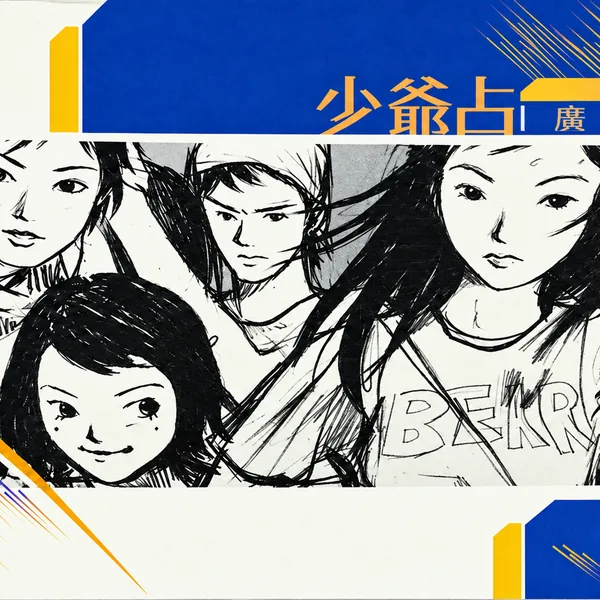
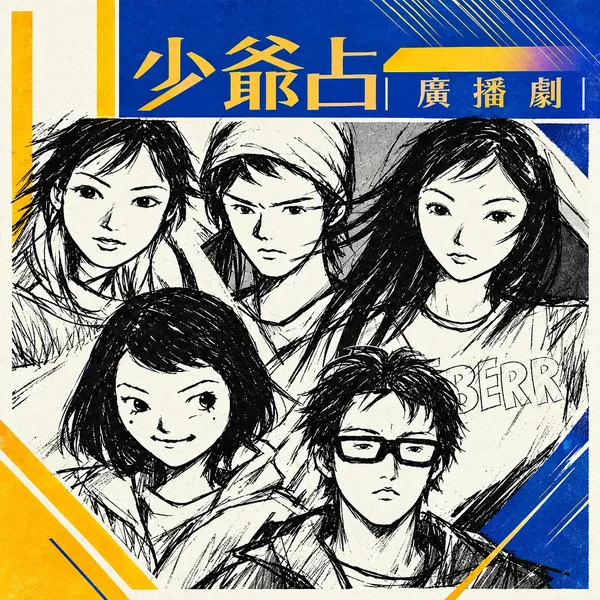
feat(drama): use the supplied CD covers for 少爺占系列 and 黃金少年 series discs
- jim/disc.webp: the user's square CD cover, resized to 600x600
- golden gets its own series disc.webp from the CD cover instead of
  borrowing season-1-disc.webp; the four season discs stay as they are
- golden.test.ts now expects no season disc to be the series disc

Claude-Session: https://claude.ai/code/session_01NegVT1E6bKciWZ9NNvzRcz

diff --git a/src/dramas/golden.test.ts b/src/dramas/golden.test.ts
@@ -48,11 +48,11 @@ describe('黃金少年', () => {
     });
 
     describe('per-season disc art', () => {
-        it('gives every season its own disc, with Season 1 as the drama disc', () => {
+        it('gives every season its own disc, none of them the series disc', () => {
             const discs = SEASONS.map((n) => inSeason(n)[0]).map((e) => e && dramaArtFor(e));
             expect(discs.every(Boolean)).toBe(true);
             expect(new Set(discs).size).toBe(SEASONS.length);
-            expect(discs[0]).toBe(findDrama('golden')?.theme.art);
+            expect(discs).not.toContain(findDrama('golden')?.theme.art);
         });
 
         it('themes a playing episode with the drama colours and the season disc', () => {

diff --git a/README.md b/README.md
@@ -14,7 +14,7 @@
   闊 ≥ 1024px 字同掣 × 1.3、iPad 打橫 × 1.5（`--ui-scale`）。Preview：`design/previews/landscape-preview.html`
 - 廣播劇（`src/dramas/<id>/drama.json`，見下面「資料檔」）：主頁廣播劇 tab 一行一套劇；全部用淺色主題（頁頂狀態列墊深色帶，iOS 白字睇得清），碟面用劇集圖
     - 芝See菇Bi Family（短篇劇集）：唱片下面「現正播放：短篇 · 第 N 集」（暫停講「已暫停」、揀短篇載入咗未開始講「下一集」，清單行同樣講「已暫停 / 未開始」）+ 短篇 chips 左右掃，揀短篇換集數清單（冇播放時順便載入嗰個短篇嘅續聽集，唔自動播，碟面同時間跟住轉；播緊就淨係換清單）（有集名大字顯示集名，冇就顯示「第 N 集」）；入頁續播上次聽緊嗰集（聽完就下一集）；一集播完自動接下一集（播完一個短篇接下一個短篇，最後一集播完就停）；「☰ 全集」釘住 chips 最左，打開全集一覽表（分組：播放中 → 新上架 → 未聽完 → 已聽完；圓環 = 聽完幾多集；右邊掣續聽 / 播未收聽 / ↺ 重聽），短篇 chips 同一次序；集數清單聽完嘅排最底；新短篇（catalog `addedAt`）上架 14 日內有「新」；主頁劇集格：未聽過 / 播緊時只有短篇數（右下），聽過未播緊就喺圖底出「繼續收聽」（短篇數移去右上），有未聽過嘅新短篇左上角出「新」
-    - 黃金少年（短篇劇集，`arcUnit: "season"`）：4 季 126 集，主頁角落「全 4 季」，碟面跟播緊（或者暫停時揀咗）嗰季（每季一張 `season-N-disc.webp`）
+    - 黃金少年（短篇劇集，`arcUnit: "season"`）：4 季 126 集，主頁角落「全 4 季」，碟面跟播緊（或者暫停時揀咗）嗰季（每季一張 `season-N-disc.webp`），未揀季時用系列碟面 `disc.webp`
     - 森美小儀系列（短篇劇集）：7 個短篇 109 集（來不及聽你說愛我 10、公子森林 40、十九樓半的夏天 10、森之愛情I - 森之聖誕 10、森之愛情II - 電燈膽 9、森之聖誕2010 15（每集有集名）、森美幻想劇 15），每個短篇有自己碟面（`<短篇>-disc.webp`）
     - 少爺占系列（短篇劇集）：2 個短篇 38 集（八王子 21、忠孝公路 17），每個短篇有自己碟面
     - 蘭茜夫人劇場（短篇劇集）：3 個短篇 100 集（戀愛二分一 30、初戀無限次 33、我心不死 37），每個短篇有自己碟面
